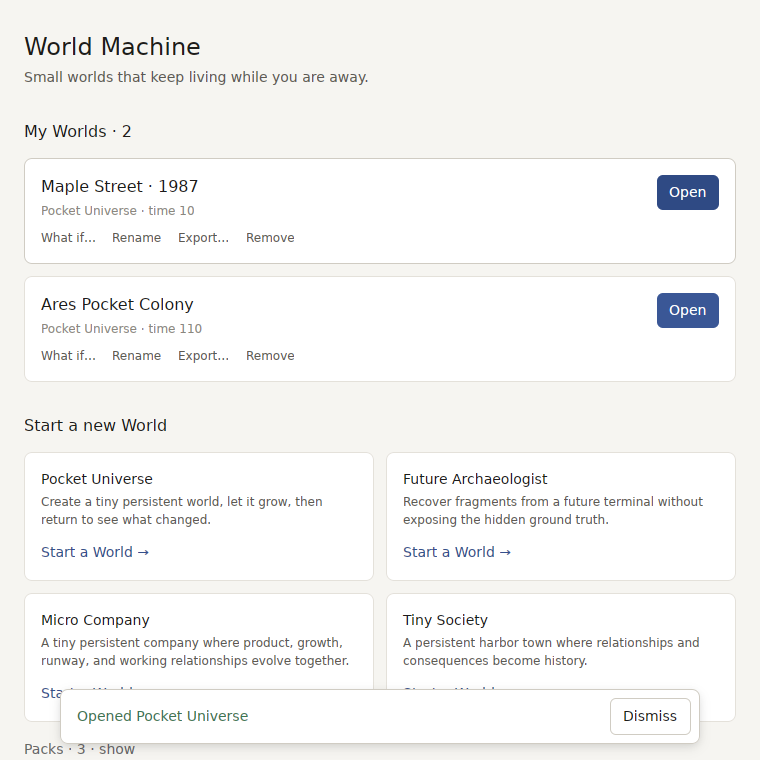
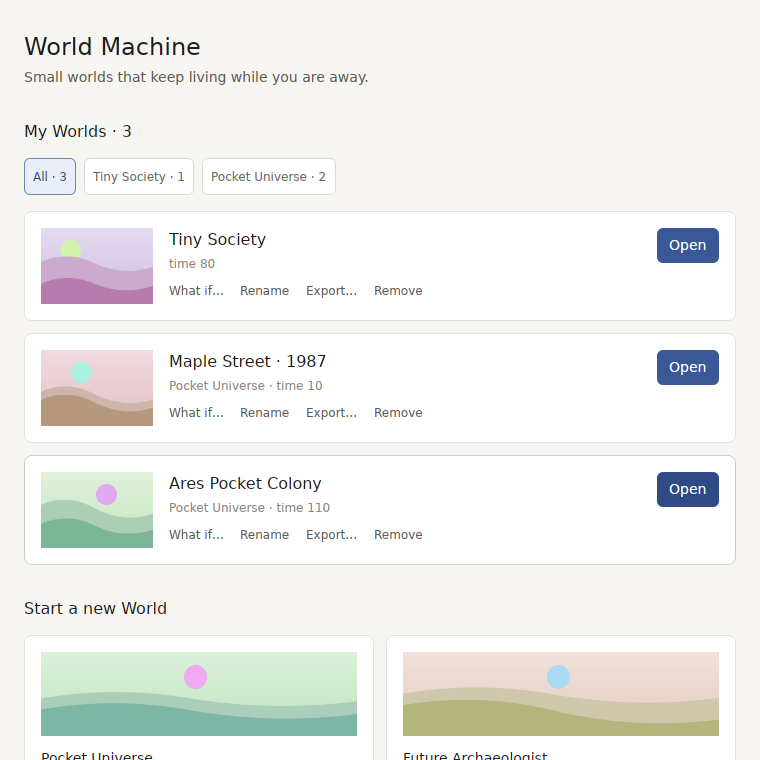
Measure the app against the best of its genre
Adds the assessment to docs/PRODUCT_REVIEW.md: Animal Crossing, RimWorld,
Crusader Kings III, Reigns, The Sims, Townscaper, Wildermyth and a git
graph, what each does best, what this change takes from it, and where
the app still falls short; a scorecard before and after; and the
projection fields (tone, command effects, deltas, meters, Pack art)
that would let the UI show choices and changes instead of describing
them. Screenshots now show the scene, Tiny Society, and dark mode.

Claude-Session: https://claude.ai/code/session_01TCg5ZxjYzYxeLceZsJymFY

diff --git a/CHANGELOG.md b/CHANGELOG.md
@@ -6,9 +6,10 @@ Releases live on the [Releases page](https://github.com/hxddh/world-machine/rele
 
 **Worlds created before this release will not open.** Tiny Society moves to `0.3.0` because it now records things it used to leave unrecorded, and a `.world` file records the Pack version it was created with. Export anything you want to keep before updating; Pocket Universe and Micro Company Worlds are unaffected.
 
-- **A World window reads like a page, not a log.** What happened is told first, in order, as a short story; the choice in front of you is the one highlighted panel, and each option answers the pointer; how things stand follows. People, places, and a history grouped by moment sit in a sidebar that folds under the page in a narrow window. The World's name appears once, in one title bar with Branch and What if….
+- **You see the World before you read about it.** A World opens on a drawn scene: places as tiles, people as faces, the relationship between them as a line that says what it is (Partners, Rivals), and a halo on whoever the latest news is about. A strip next to the title shows when things happened over the World's life. A crowded World such as Tiny Society's harbour lays itself out so nothing covers anything else.
+- **Every World on Home has its own small landscape**, so Worlds can be told apart before reading their names.
+- **A World window reads like a page, not a log.** The choice in front of you is the one highlighted panel, beside what happened, each beat with the face of whoever it happened to; how things stand follows. People, places, and a history grouped by moment sit in a sidebar that folds under the page in a narrow window. The World's name appears once, in one title bar with Branch and What if….
 - **Choices speak the World's language.** "Choice signal: one full cycle resolves under current rules…" and "Verified by this Event: World direction = Rooted at generation 6" are gone. A choice you made now reads "You chose · Rooted — This World now leans rooted", and why anything happened is still one click away under *Why it happened*.
-- **The World map shows.** It had collapsed to a one-pixel line in every release.
 - **Home lists your Worlds by name, with one Open button each.** What if…, Rename, Export… and Remove are quiet actions under the name; event counts and file ids are gone from the card. Start a new World is a grid led by the World to try first.
 - **Home no longer offers "Start your first World" to someone who has one**, no longer shifts under the pointer when a message appears, and names the World you opened.
 - **One palette, chosen for both appearances.** Colours, type sizes, weights, and hover states come from one set of named roles, with dark values picked by hand and contrast checked against WCAG AA, instead of a formula inverting light colours.
